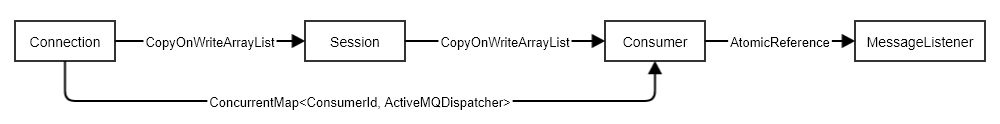
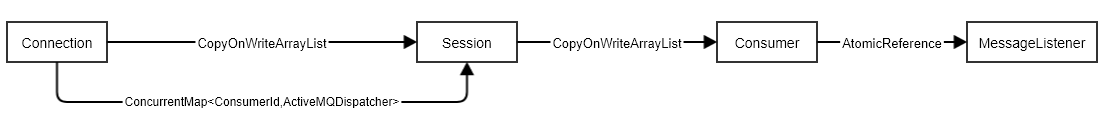
Session消息分发

diff --git a/src/main/java/mq/SessionListener.java b/src/main/java/mq/SessionListener.java
@@ -1,0 +1,55 @@
+package mq;
+
+import org.apache.activemq.ActiveMQConnectionFactory;
+import org.springframework.stereotype.Component;
+
+import javax.annotation.PostConstruct;
+import javax.jms.*;
+
+/**
+ * {@link org.apache.activemq.ActiveMQSession#setMessageListener(MessageListener)}到底是什么效果?
+ *
+ * @author skywalker
+ */
+@Component
+public class SessionListener {
+
+    @PostConstruct
+    public void receive() {
+        ConnectionFactory connectionFactory; // Connection ：JMS 客户端到JMS
+        Connection connection = null; // Session： 一个发送或接收消息的线程
+        Session session; // Destination ：消息的目的地;消息发送给谁.
+        Destination destination; // MessageProducer：消息发送者
+        // 构造ConnectionFactory实例对象，此处采用ActiveMq的实现jar
+        connectionFactory = new ActiveMQConnectionFactory("admin",
+                "admin", "tcp://localhost:61616");
+        try {
+            connection = connectionFactory.createConnection();
+            connection.start();
+            session = connection.createSession(Boolean.TRUE, Session.AUTO_ACKNOWLEDGE);
+
+            session.setMessageListener(new MessageListener() {
+                @Override
+                public void onMessage(Message message) {
+
+                }
+            });
+
+            destination = session.createQueue("foo.bar");
+            MessageConsumer consumer = session.createConsumer(destination);
+            Message message;
+            while ((message = consumer.receive()) != null) {
+                System.out.println("收到消息: " + message);
+            }
+        } catch (Exception e) {
+            e.printStackTrace();
+        } finally {
+            try {
+                if (null != connection)
+                    connection.close();
+            } catch (Throwable ignore) {
+            }
+        }
+    }
+
+}

diff --git a/notes/note.md b/notes/note.md
@@ -95,7 +95,10 @@ public void onCommand(final Object o) {
 }
 ```
 
-很容易理解，下面就是ActiveMQSession的dispatch方法:
+这里的dispatcher便是ActiveMQSession，可以得出一个结论:**一个Session中所有消费者/订阅者的消息均由此Session负责分发**，同时在dispatchers数据结构中，一个ActiveMQSession
+会以value的形式存在于多个K-V对中。
+
+ActiveMQSession的dispatch方法:
 
 ```java
 @Override
@@ -117,4 +120,214 @@ void execute(MessageDispatch message) throws InterruptedException {
 }
 ```
 
-很明显，这里的分发支持同步和异步两种模式。
+很明显，这里的分发支持同步和异步两种模式，由ActiveMQConnection的dispatchAsync属性进行控制，默认为true，在Spring中我们可以通过以下配置进行改变:
+
+```xml
+<bean id="connectionFactory" class="org.apache.activemq.ActiveMQConnectionFactory">
+  <property name="dispatchAsync" value="true" />
+</bean>
+```
+
+这里我们以较为复杂的异步模式进行说明。
+
+## 消息队列
+
+messageQueue属性在ActiveMQSessionExecutor的构造器中初始化:
+
+```java
+ActiveMQSessionExecutor(ActiveMQSession session) {
+    this.session = session;
+    if (this.session.connection != null 
+        && this.session.connection.isMessagePrioritySupported()) {
+       this.messageQueue = new SimplePriorityMessageDispatchChannel();
+    }else {
+        this.messageQueue = new FifoMessageDispatchChannel();
+    }
+}
+```
+
+如果我们进行以下的配置:
+
+```xml
+<bean id="connectionFactory" class="org.apache.activemq.ActiveMQConnectionFactory">
+    <property name="messagePrioritySupported" value="true" />
+</bean>
+```
+
+即表示启用消息优先级机制，此时将使用优先级队列进行消息分发，否则使用简单的先进先出队列，默认为关闭。
+
+消息优先级由JMS标准定义，其实就是一个0-9的数字，默认为4.
+
+以ActiveMQTextMessage为例，我们可以通过调用其setPriority方法设置其优先级。
+
+从SimplePriorityMessageDispatchChannel本质上是一个LinkedList数组，**每一个优先级都有一个LinkedList与之对应**。其构造器源码:
+
+```java
+private final LinkedList<MessageDispatch>[] lists;
+public SimplePriorityMessageDispatchChannel() {
+    this.lists = new LinkedList[MAX_PRIORITY];
+    for (int i = 0; i < MAX_PRIORITY; i++) {
+        lists[i] = new LinkedList<MessageDispatch>();
+    }
+}
+```
+
+出队操作由removeFirst方法完成:
+
+```java
+private final MessageDispatch removeFirst() {
+    if (this.size > 0) {
+        for (int i = MAX_PRIORITY - 1; i >= 0; i--) {
+            LinkedList<MessageDispatch> list = lists[i];
+            if (!list.isEmpty()) {
+                this.size--;
+                return list.removeFirst();
+            }
+        }
+    }
+    return null;
+}
+```
+
+优先从高优先级的LinkedList中获取。
+
+## 分发
+
+ActiveMQSessionExecutor.wakeUp方法:
+
+```java
+public void wakeup() {
+    if (!dispatchedBySessionPool) {
+        if (session.isSessionAsyncDispatch()) {
+            TaskRunner taskRunner = this.taskRunner;
+            if (taskRunner == null) {
+                synchronized (this) {
+                    if (this.taskRunner == null) {
+                        if (!isRunning()) {
+                            // stop has been called
+                            return;
+                        }
+                        this.taskRunner = 
+                          session.connection.getSessionTaskRunner().createTaskRunner(this,
+                                "ActiveMQ Session: " + session.getSessionId());
+                    }
+                    taskRunner = this.taskRunner;
+                }
+            }
+            taskRunner.wakeup();
+        } 
+    }
+}
+```
+
+当我们设置了MessageListener是dispatchedBySessionPool便为true，这一点可以从ActiveMQSession的setMessageListener方法得以证明:
+
+```java
+@Override
+public void setMessageListener(MessageListener listener) throws JMSException {
+    //...
+    if (listener != null) {
+        executor.setDispatchedBySessionPool(true);
+    }
+}
+```
+
+这可以得出一个很重要的结论:
+
+**MessageListener和其它形式的消费行为是互斥的**，换句话说，一旦MessageListener被设置(对于Session来说)，那么普通的Consumer以及Subscriber都将失效。
+
+### MessageListener
+
+这个地方需要着重说明一点：**Session和Consumer均可以设置MessageListener**，MessageListener和普通的阻塞消费者是两种**互斥**的方式。
+
+### 其它
+
+#### TaskRunner
+
+TaskRunner接口是ActiveMQ对线程执行特定的任务这一行为的抽象。ActiveMQ创建了一个DedicatedTaskRunner对象用于Session阶段的消息分发。
+
+![TaskRunner](images/task_runner.png)
+
+DedicatedTaskRunner的原理从其构造器中便可以看出:
+
+```java
+public DedicatedTaskRunner(final Task task, String name, int priority, boolean daemon) {
+    this.task = task;
+    thread = new Thread(name) {
+        @Override
+        public void run() {
+            try {
+                runTask();
+            } finally {
+                LOG.trace("Run task done: {}", task);
+            }
+        }
+    };
+    thread.setDaemon(daemon);
+    thread.setName(name);
+    thread.setPriority(priority);
+    thread.start();
+}
+```
+
+#### Task
+
+Task接口是ActiveMQ对任务的抽象:
+
+![Task](images/task.png)
+
+这里将任务抽象为一次又一次的事件循环，iterate方法将持续被调用，直到返回false。
+
+#### Session级别分发
+
+核心逻辑位于ActiveMQSessionExecutor的iterate方法:
+
+```java
+public boolean iterate() {
+    // Deliver any messages queued on the consumer to their listeners.
+    for (ActiveMQMessageConsumer consumer : this.session.consumers) {
+        if (consumer.iterate()) {
+            return true;
+        }
+    }
+
+    // No messages left queued on the listeners.. so now dispatch messages
+    // queued on the session
+    MessageDispatch message = messageQueue.dequeueNoWait();
+    if (message == null) {
+        return false;
+    } else {
+        dispatch(message);
+        return !messageQueue.isEmpty();
+    }
+}
+```
+
+消费者(Subcriber也是消费者)对于消息的处理同样有两种情况:
+
+- MessageListener: 直接由Session分发线程调用其onMessage方法。
+
+- 如果没有设置MessageListener，那么和Session分发的逻辑完全相同，消息首先被加入到一个FIFO或者优先级队列中，之后喜闻乐见的notify我们正在等待消息的消费者。
+
+所以这里Session消息分发的逻辑可以总结为:
+
+- 如果任何一个消费者中尚有没有被消费的消息，那么将这些消息传递给MessageListener。
+
+- 如果第一条不满足，那么将Session收到的消息向下分发给消费者，这里分发的逻辑便是上面提到的。
+
+到这里可能会有疑问: 既然只有当没有设置MessageListener时消息才会被放到队列中，那么上面将未消费的消息传递给MessageListener是什么情况呢？
+
+其实从代码来看，只有满足下列条件时才会直接传递给MessageListener，ActiveMQMessageConsumer.dispatch:
+
+```java
+@Override
+public void dispatch(MessageDispatch md) {
+    if (listener != null && unconsumedMessages.isRunning()) {
+        //调用MessageListener.onMessage方法
+    }
+}
+```
+
+猜测需要处理连接已经建立(即已经开始监听消息)，但是消费者还没启动完毕这个时间空隙收到的消息。
+
+
